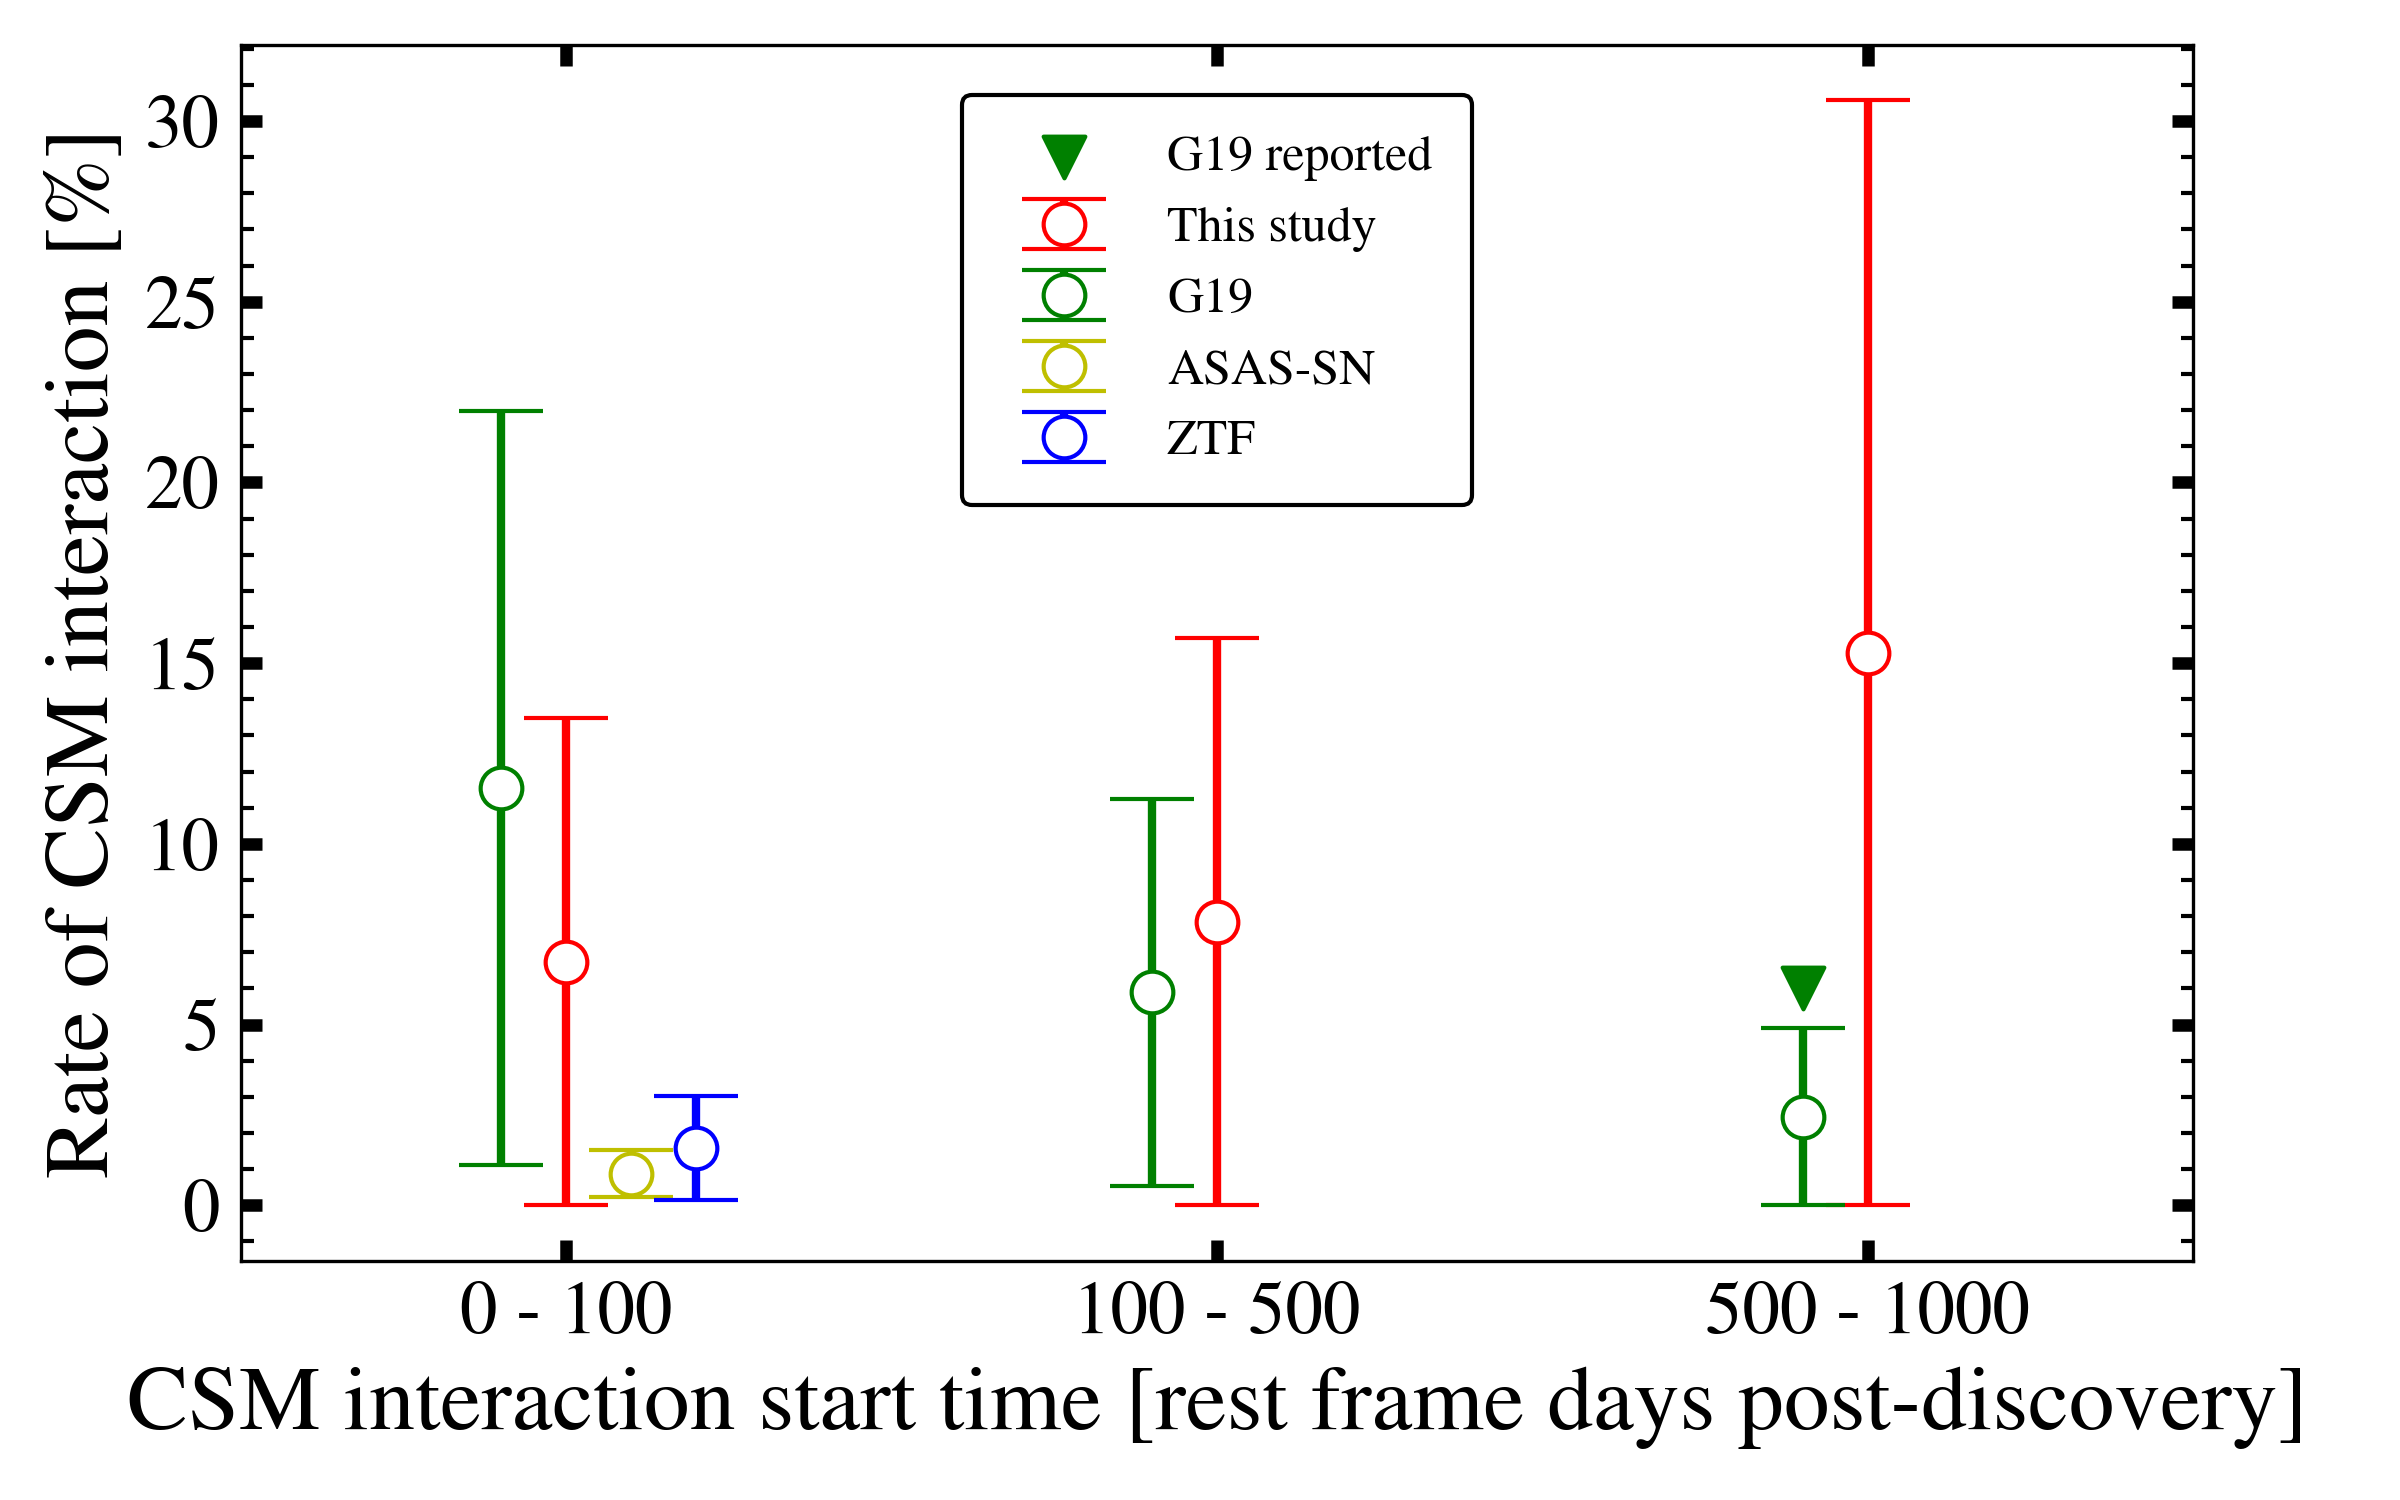
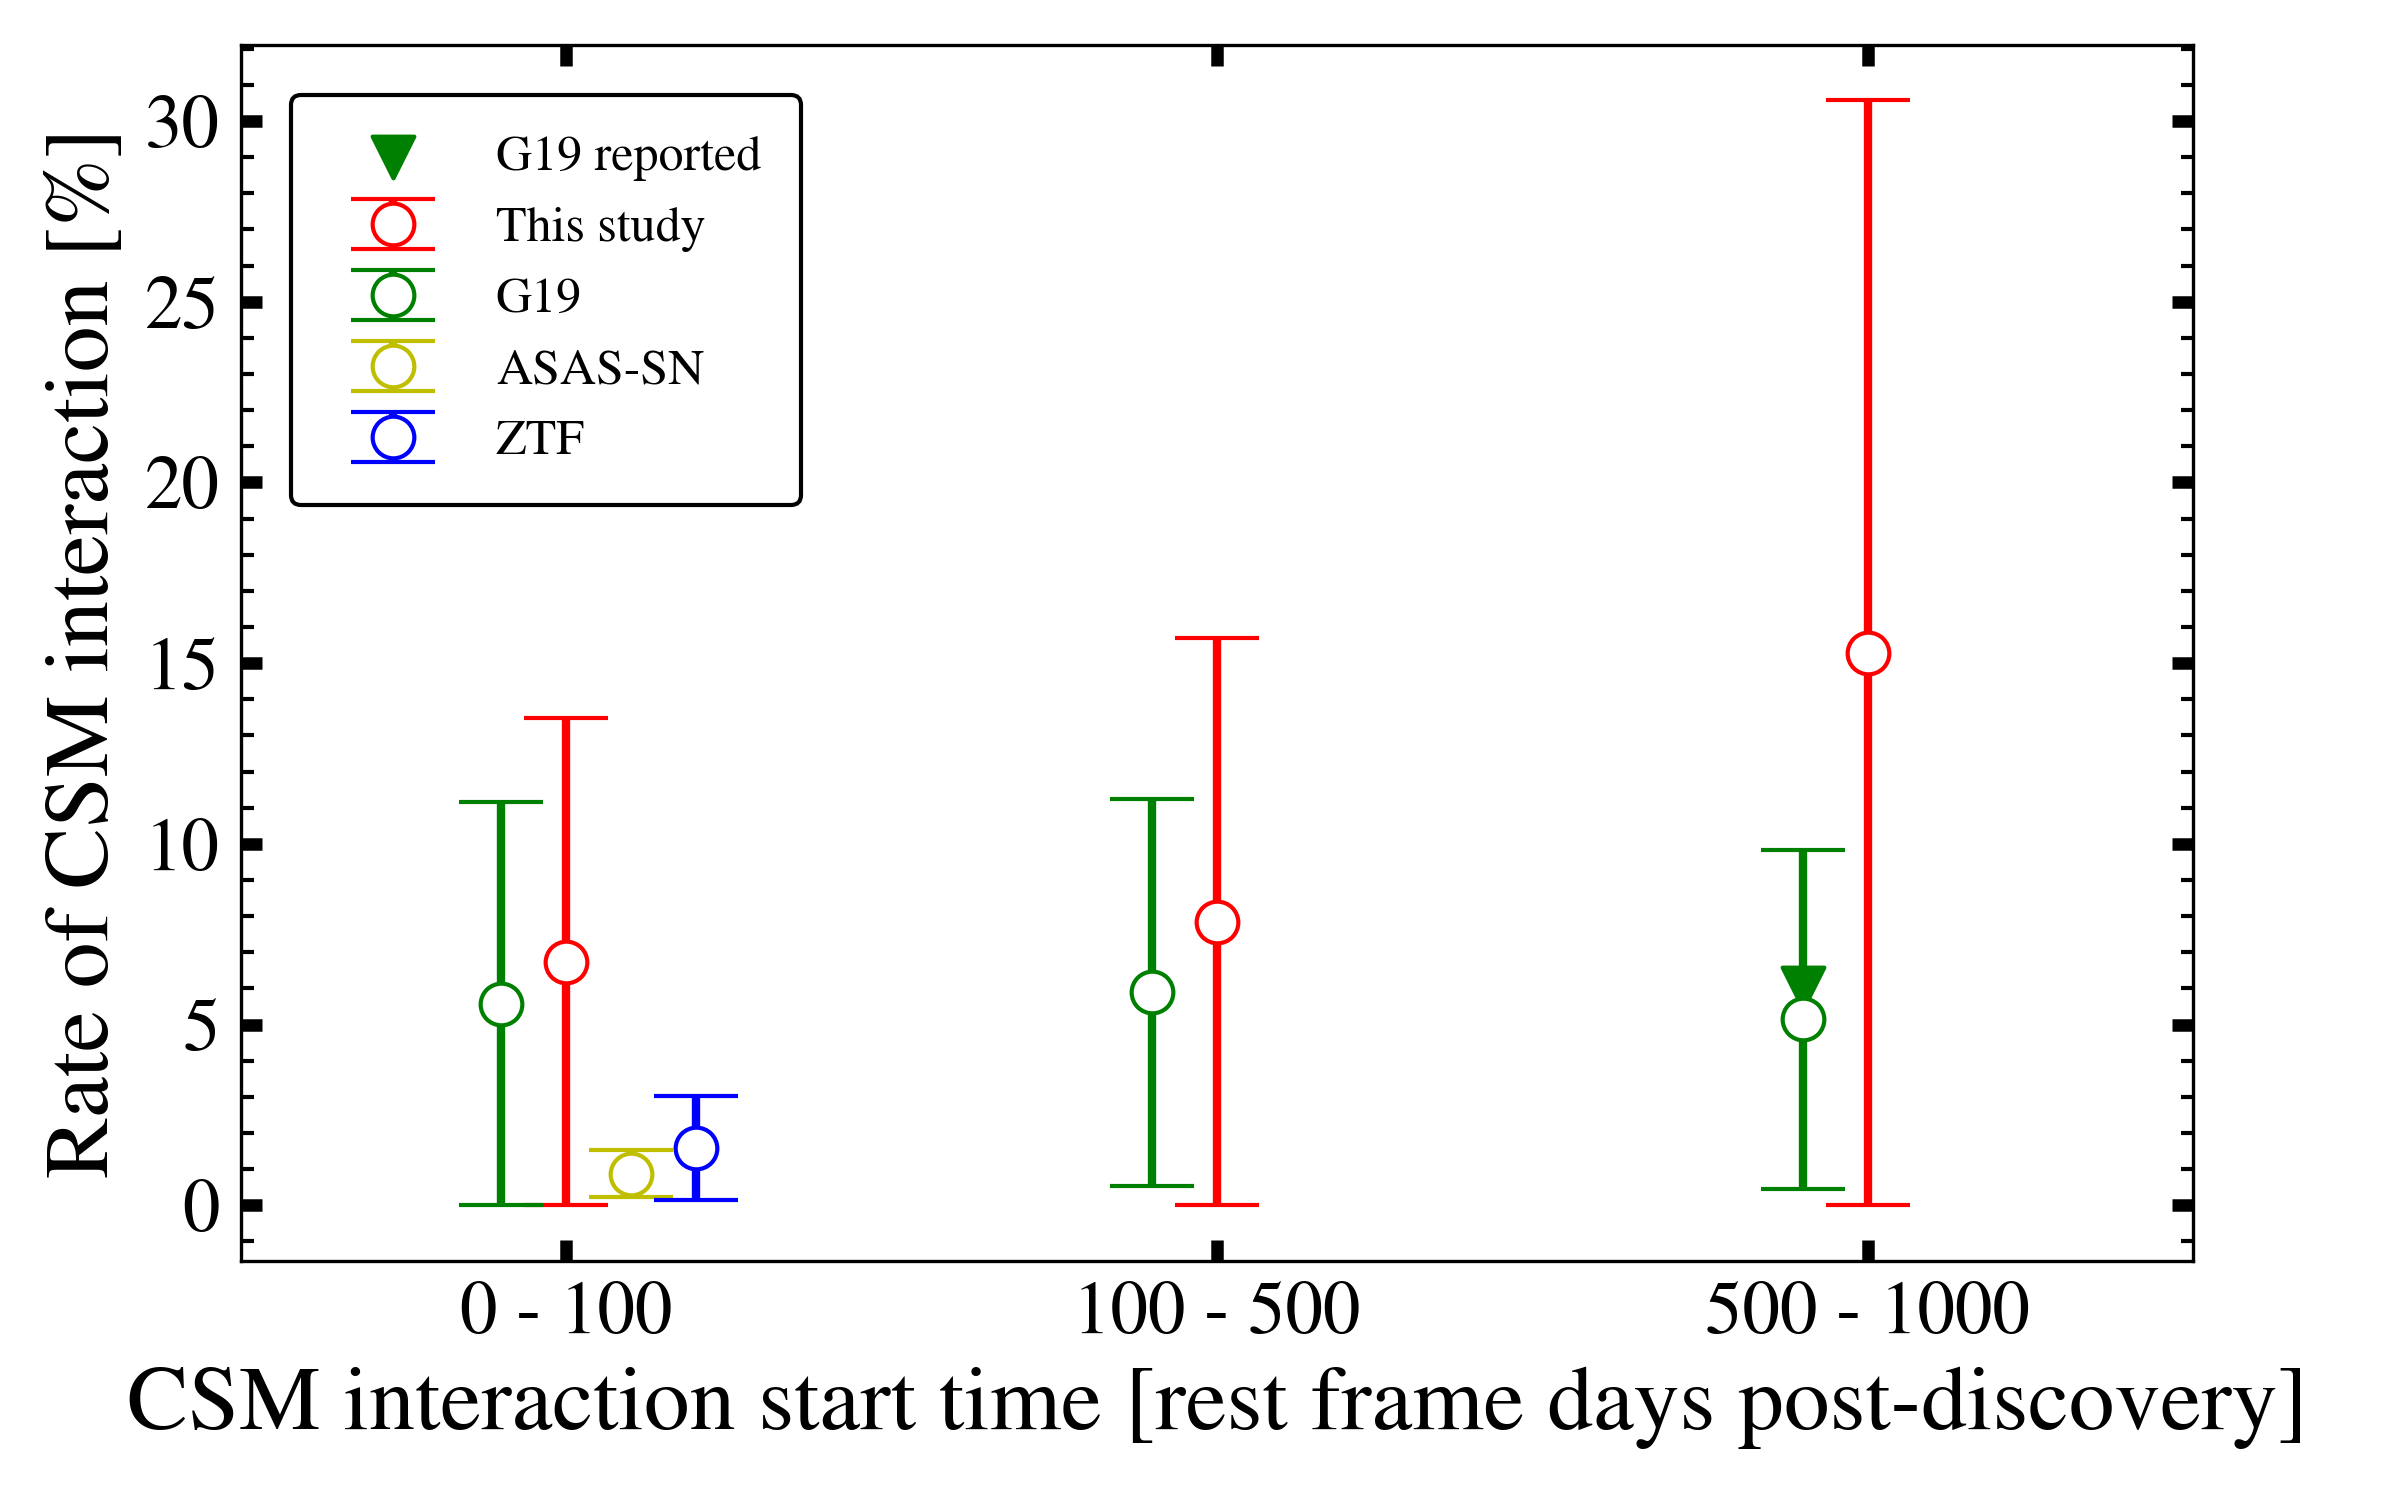
update rates

diff --git a/plot_rates.py b/plot_rates.py
@@ -43,7 +43,7 @@ def main(galex_run_dir, graham_run_dir, tstart_bins=TSTART_BINS, scale=SCALE,
     ax = plot_bci(ax, 0, galex_hist.iloc[0], x_pos, color='r', label='This study')
 
     # Add Graham 2019
-    ax = plot_bci(ax, [1,1,0], graham_hist.iloc[0], x_pos, color='g', label='G19',
+    ax = plot_bci(ax, [0,1,1], graham_hist.iloc[0], x_pos, color='g', label='G19',
             x_adjust=-0.1)
     ax.scatter([1.9], [GRAHAM_RATE], marker='v', color='g', s=100, label='G19 reported')
 
